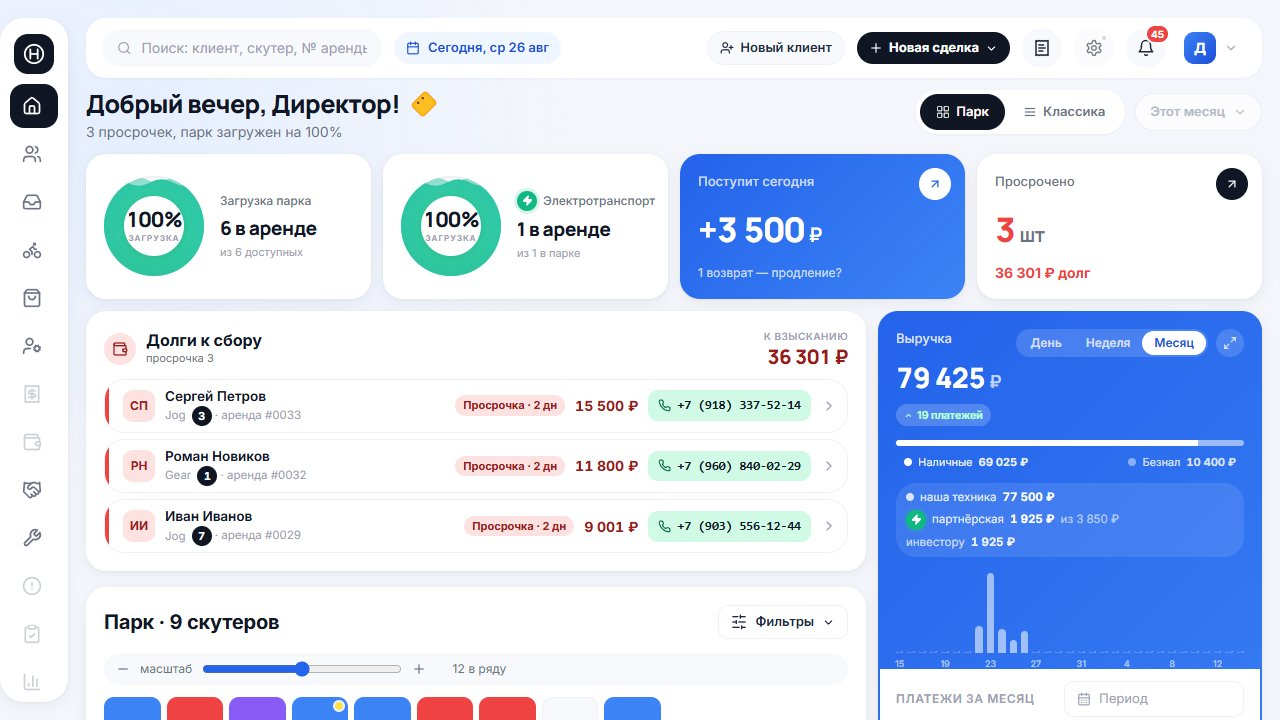
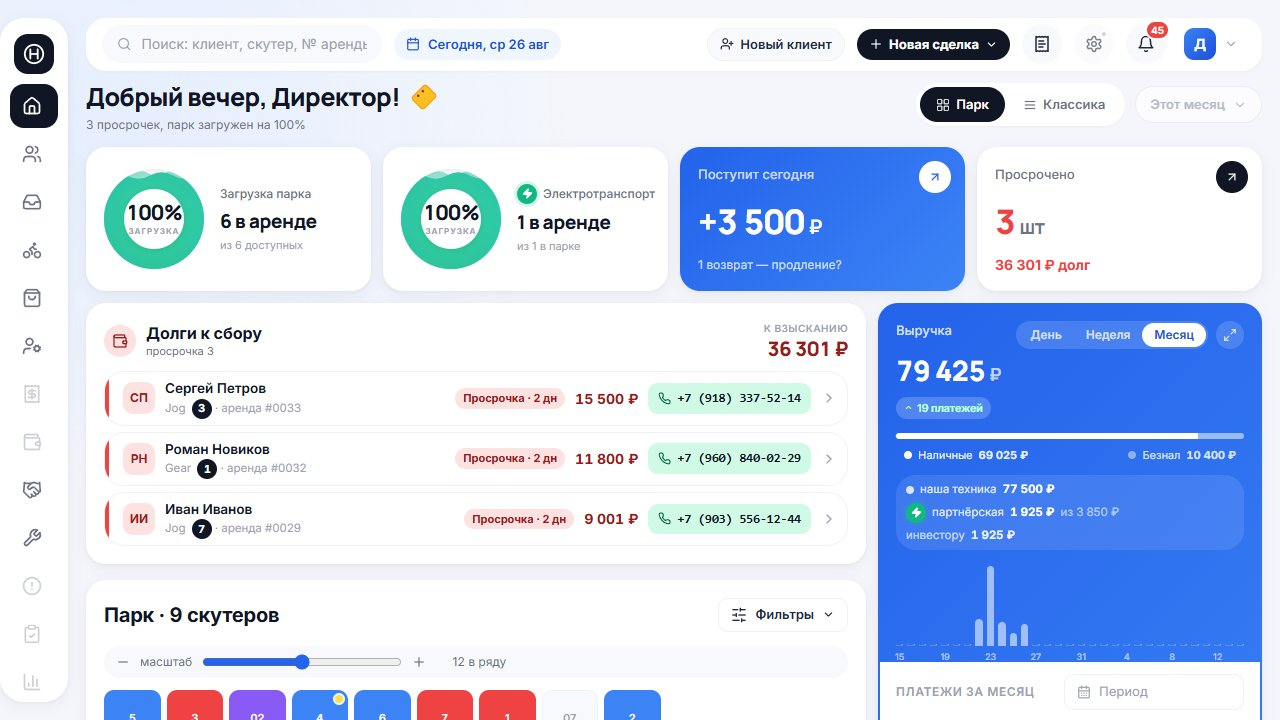
docs(правки-2.0): истории 2.10-2.13 — режимы, договор электровелосипеда, разделение выручки, адаптив

diff --git a/apps/web/src/data/progress.ts b/apps/web/src/data/progress.ts
@@ -1235,7 +1235,24 @@ export const progressItems: ProgressItem[] = [
     title: "Аренда партнёрской техники — как обычная, но в партнёрке",
     quote:
       "В партнёрке должен быть режим аренды — полностью переиспользовать функционал обычной аренды. Статистика и внутри партнёрки, и в общей аналитике, помечая явно где наши доходы, где партнёрские, где инвестора.",
-    status: "planned",
+    status: "done",
+    note:
+      "Партнёрская техника сдаётся тем же механизмом, что и наша, а в общей выручке появилась строка с явным разделением: наша техника, партнёрская и сколько из неё уходит инвестору.",
+    story: [
+      {
+        tag: "fix",
+        text:
+          "Аренда партнёрской единицы оформляется как обычная — через «Новую сделку», с тем же договором, залогом и приёмкой. Отличие только в учёте: такая аренда попадает во вкладку «Аренды» внутри партнёрки (пункт 2.9), а не в общий список.",
+      },
+      {
+        tag: "fix",
+        text:
+          "В карточке «Выручка» на дашборде под наличными и безналом появилась строка разделения: «наша техника 77 500 ₽ · партнёрская 1 925 ₽ из 3 850 ₽ · инвестору 1 925 ₽». То есть видно и сколько партнёрская техника принесла всего, и сколько из этого осталось нам, и сколько причитается инвестору. Общая сумма выручки, как и раньше, показана уже за вычетом доли инвестора — строка просто объясняет, из чего она сложилась. Появляется она только когда партнёрская техника за период что-то заработала.",
+        imgs: [
+          { src: "/progress/v2-12-split-crop.png", label: "Выручка: наше, партнёрское и доля инвестора" },
+        ],
+      },
+    ],
   },
   {
     id: "2.13",
@@ -1243,7 +1260,25 @@ export const progressItems: ProgressItem[] = [
     title: "Адаптив под маленькие экраны ноутбуков",
     quote:
       "Проработать адаптив CRM под маленькие экраны ноутбуков — теряется часть контента. Некоторые блоки сделать скрываемыми или поработать с размером, некоторые переработать, чтобы контент было удобно смотреть.",
-    status: "planned",
+    status: "done",
+    note:
+      "На экранах ноутбуков (1280×720, 1366×768) CRM переходит в компактный режим: заголовки меньше, отступы плотнее, строки списков ниже — на экран помещается заметно больше.",
+    story: [
+      {
+        tag: "bug",
+        text:
+          "Сначала проверили, что именно теряется. По ширине всё в порядке — прогнали дашборд, аренды, скутеры, клиентов и партнёрку на 1280 и 1366 пикселей: ни один блок за край не вылезает, горизонтальной прокрутки нет. Проблема в высоте: крупные заголовки, воздушные карточки и большие отступы съедали экран, и до списка приходилось скроллить.",
+      },
+      {
+        tag: "fix",
+        text:
+          "Добавлен компактный режим — он включается сам на экранах высотой до 820 пикселей (это как раз 13–14-дюймовые ноутбуки). Заголовок страницы уменьшается с 34 до 25 пикселей, отступы сетки и поля карточек ужимаются, крупные цифры показателей чуть меньше, шапка ниже, строки списков плотнее. Логика и расположение блоков не меняются — только плотность, поэтому привыкать заново не нужно. На больших мониторах всё остаётся как было.",
+        imgs: [
+          { src: "/progress/v2-13-small-dashboard.jpg", label: "Дашборд на 1280×720: помещаются карточки, долги и парк" },
+          { src: "/progress/v2-13-small-fleet.jpg", label: "Скутеры на 1280×720: режимы, статистика и список сразу" },
+        ],
+      },
+    ],
   },
 
   // ─────────────── Новые разделы ───────────────

diff --git a/ROADMAP.md b/ROADMAP.md
@@ -358,8 +358,8 @@
 - [x] 2.9 Три сущности: партнёры / электротранспорт / аренды — изолированы от наших
 - [x] 2.10 Режимы «Скутеров»: аренда/продажа/выкуп/не распределены + новое добавление
 - [x] 2.11 Договор электровелосипеда
-- [ ] 2.12 Аренда партнёрской техники (переиспользуем обычную)
-- [ ] 2.13 Адаптив под маленькие ноутбуки
+- [x] 2.12 Аренда партнёрской техники (переиспользуем обычную)
+- [x] 2.13 Адаптив под маленькие ноутбуки
 
 ## Журнал выполнения
 
